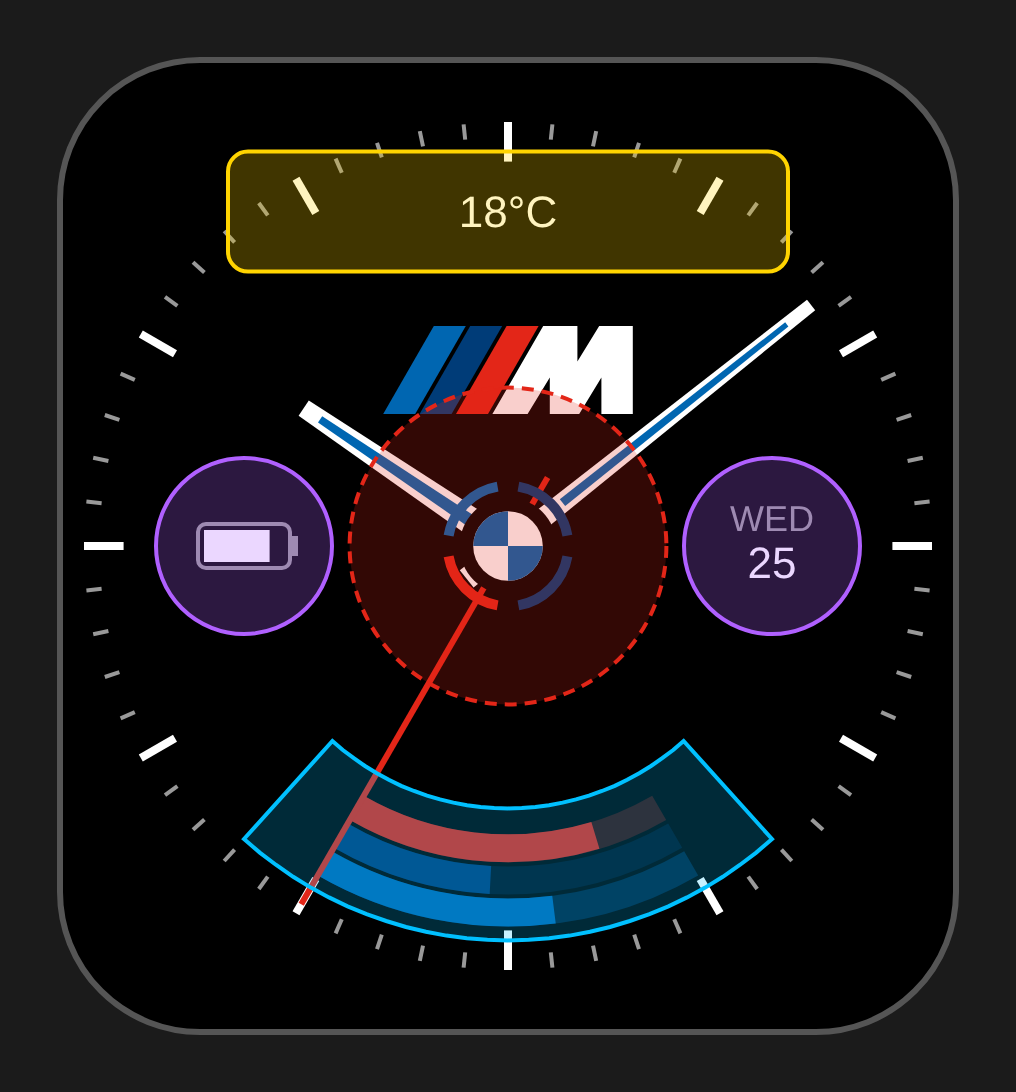
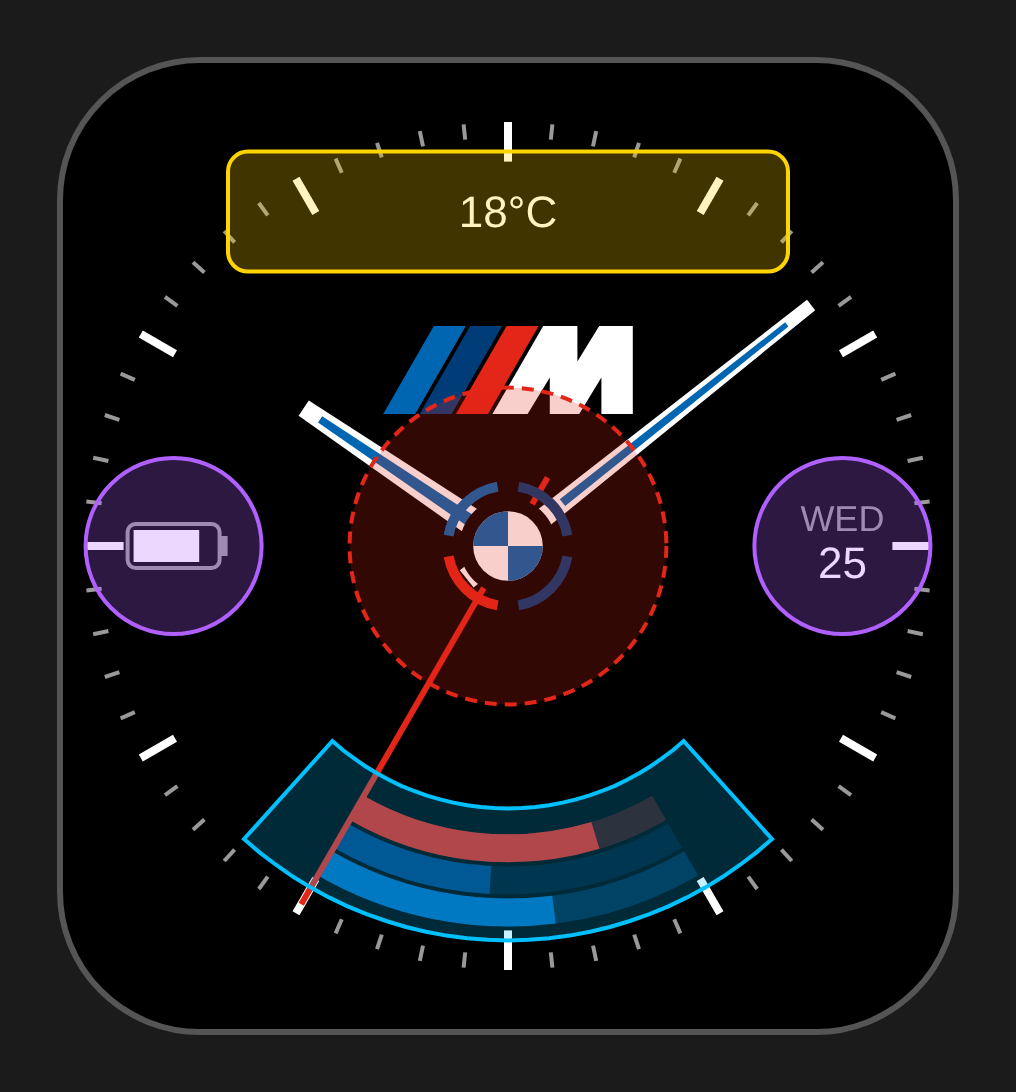
Put the date and battery on the temperature's arc
The temperature (12 o'clock), the date (3) and the watch battery icon (9) now all sit
at the middle ring's distance from the centre. Remove the separate DIAL_SIDE_X token;
the view, hit-testing, tests, wireframe tool and README use Geometry.middleRingR.

Claude-Session: https://claude.ai/code/session_01CEiR5mX4CwQUtKoZKTxSUA

Changed region(s): [[0.061, 0.4048, 0.3356, 0.5916], [0.6713, 0.4048, 0.9154, 0.5916]]

diff --git a/tools/wireframes.py b/tools/wireframes.py
@@ -67,7 +67,7 @@ CARD_W, CARD_H, CARD_H_ROWS, CARD_R, CARD_PAD = (num("CARD_W"), num("CARD_H"), n
 CARD_TITLE_Y, CARD_BIG_Y, CARD_DETAIL_Y, CARD_ROW_Y, CARD_ROW_PITCH = (num("CARD_TITLE_Y"), num("CARD_BIG_Y"),
                                                                         num("CARD_DETAIL_Y"), num("CARD_ROW_Y"),
                                                                         num("CARD_ROW_PITCH"))
-DIAL_SIDE_X, WINDOW_LABEL_DY, WINDOW_VALUE_DY = num("DIAL_SIDE_X"), num("WINDOW_LABEL_DY"), num("WINDOW_VALUE_DY")
+WINDOW_LABEL_DY, WINDOW_VALUE_DY = num("WINDOW_LABEL_DY"), num("WINDOW_VALUE_DY")
 STRIPE_X0, STRIPE_PITCH, STRIPE_W = num("STRIPE_X0"), num("STRIPE_PITCH"), num("STRIPE_W")
 STRIPE_SLANT, STRIPE_HALF_H = num("STRIPE_SLANT"), num("STRIPE_HALF_H")
 NAV_CHEVRON_X, CHEVRON_HALF_W, CHEVRON_HALF_H, DOT_PITCH = (num("NAV_CHEVRON_X"), num("CHEVRON_HALF_W"),
@@ -242,12 +242,13 @@ def dial_into(s, ox, oy, zones=False, card=None):
         s.line(pt(inner, 90 - i * 6), pt(outer, 90 - i * 6),
                WHITE if major else GREY, 4 if major else 2)
     draw_badge(s, CY - R * .4)
-    temp_y = CY - (RING_OUT - PITCH)                 # Geometry.tempY(): the middle ring's distance, mirrored
+    temp_y = CY - (RING_OUT - PITCH)                 # Geometry.tempY()
     s.text(CX, temp_y, "18&#176;C", "value", WHITE)  # the weather tap target
-    sx = CX + R * DIAL_SIDE_X                        # the date window at 3 o'clock
+    arc = RING_OUT - PITCH                           # one arc: the middle ring's distance from the centre
+    sx = CX + arc                                    # the date window at 3 o'clock
     s.text(sx, CY + WINDOW_LABEL_DY, "WED", "label", GREY)
     s.text(sx, CY + WINDOW_VALUE_DY, "25", "value", WHITE)
-    draw_battery_icon(s, CX - R * DIAL_SIDE_X, CY, 82)   # the battery at 9 o'clock
+    draw_battery_icon(s, CX - arc, CY, 82)   # the battery at 9 o'clock
     draw_hand(s, (10 + 8 / 60) * 30, R * .56, R * .07, R * .1)
     draw_hand(s, (8 + 35 / 60) * 6, R * .88, R * .05, R * .12)
     a = math.radians(35 * 6)
@@ -257,7 +258,7 @@ def dial_into(s, ox, oy, zones=False, card=None):
     if zones:
         s.add('<rect x="%.1f" y="%.1f" width="280" height="60" rx="10" fill="#FFD400" fill-opacity=".25" '
               'stroke="#FFD400" stroke-width="2"/>' % (CX - 140, temp_y - 30))
-        for zx in (CX + R * DIAL_SIDE_X, CX - R * DIAL_SIDE_X):
+        for zx in (CX + arc, CX - arc):
             s.add('<circle cx="%.1f" cy="%.1f" r="%.1f" fill="#B060FF" fill-opacity=".25" stroke="#B060FF" '
                   'stroke-width="2"/>' % (zx, CY, R * .2))
         s.add('<circle cx="%.1f" cy="%.1f" r="%.1f" fill="%s" fill-opacity=".22" stroke="%s" '

diff --git a/README.md b/README.md
@@ -36,9 +36,9 @@ simulator screenshots. They are generated from `source/Theme.mc` by
 - M badge at 12 o'clock, drawn from the flat M logo's geometry.
 - Three activity rings inside the lower dial, in the badge colours:
   steps (blue), weekly active minutes (navy) and body battery (red).
-- Date window at 3 o'clock. The watch battery is a simple icon at 9 o'clock that empties as
-  the battery drains (red below 20%). The temperature sits at 12 o'clock, the same distance
-  from the centre as the middle ring is at 6 o'clock.
+- Three readouts on one arc, the same distance from the centre as the middle ring: the
+  temperature at 12 o'clock, the date at 3 o'clock, and the watch battery at 9 o'clock as a
+  simple icon that empties as the battery drains (red below 20%).
 - Quick cards on touch and hold: hold the temperature, date, battery, roundel or rings and a
   small card appears over the dial with more detail (weather and feels-like, the date in full,
   battery percentage and days left, heart rate with resting rate and stress, the three activity
